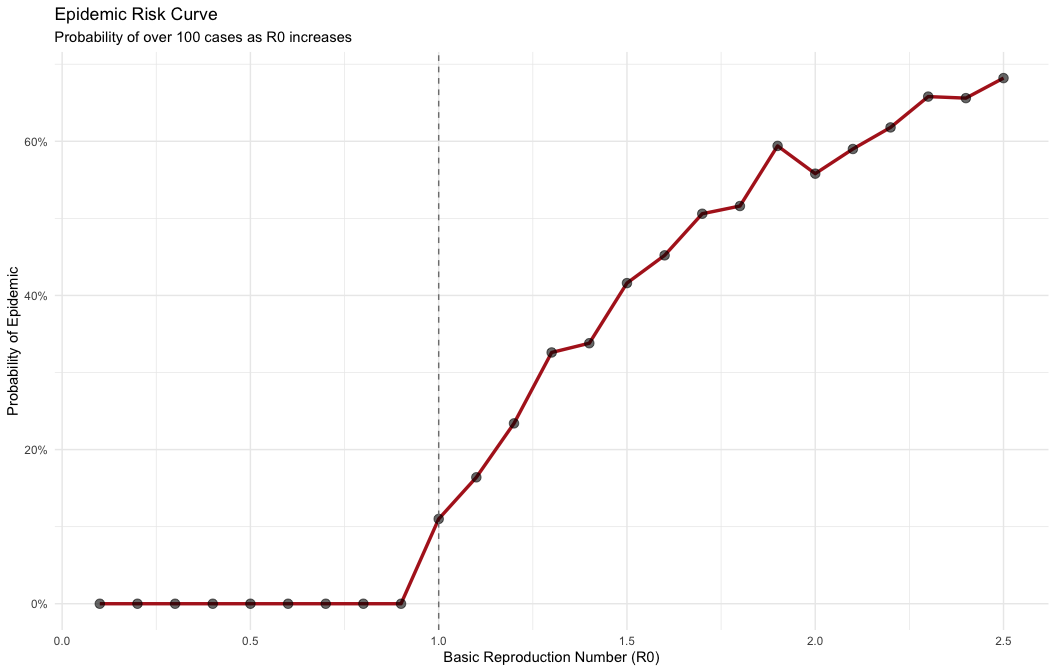
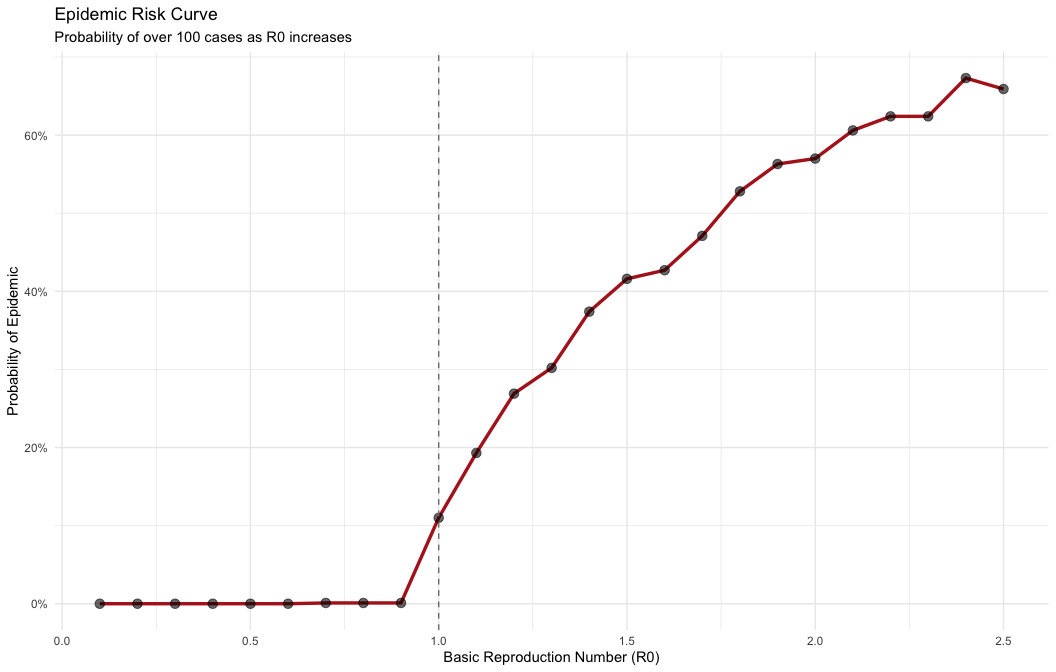
Add tables to davis_agemodel

diff --git a/vignettes/experiments/tabletop/davis_agemodel.md b/vignettes/experiments/tabletop/davis_agemodel.md
@@ -1,6 +1,7 @@
     library(multigroup.vaccine)
     library(socialmixr)
 
+    library(data.table)
     library(ggplot2)
 
 This vignette demonstrates an age-structured model of transmission
@@ -80,12 +81,82 @@ many of those simulations resulted in each number of total infections
            y = "Frequency",
            x = "Total Cases") +
       theme_minimal()
-    #> Warning: Removed 167 rows containing non-finite outside the scale range
+    #> Warning: Removed 151 rows containing non-finite outside the scale range
     #> (`stat_count()`).
-    #> Warning: Removed 1 row containing missing values or values outside the scale
+    #> Warning: Removed 2 rows containing missing values or values outside the scale
     #> range (`geom_bar()`).
 
 ![](davis_agemodel_files/figure-markdown_strict/unnamed-chunk-7-1.png)
+
+For a closer look at R0 = 0.5, here are the probabilities of different
+outbreak sizes:
+
+    # Show detailed probabilities for R0 = 0.5
+    outbreak_tot <- results_low[results_low$R0 == "0.5", ]
+    sizes <- c(1, 5, 10, 15, 20, 30, 50, 100)
+    knitr::kable(
+      data.table(
+        "Size" = sizes,
+        "P(Greater or equal)" = sapply(sizes, function(sz) mean(outbreak_tot$Cases >= sz)),
+        "P(Less or equal)" = sapply(sizes, function(sz) mean(outbreak_tot$Cases <= sz))
+      ),
+      caption = "Probability of outbreak sizes for R0 = 0.5",
+      digits = 2
+    )
+
+<table>
+<caption>Probability of outbreak sizes for R0 = 0.5</caption>
+<thead>
+<tr>
+<th style="text-align: right;">Size</th>
+<th style="text-align: right;">P(Greater or equal)</th>
+<th style="text-align: right;">P(Less or equal)</th>
+</tr>
+</thead>
+<tbody>
+<tr>
+<td style="text-align: right;">1</td>
+<td style="text-align: right;">1.00</td>
+<td style="text-align: right;">0.59</td>
+</tr>
+<tr>
+<td style="text-align: right;">5</td>
+<td style="text-align: right;">0.12</td>
+<td style="text-align: right;">0.90</td>
+</tr>
+<tr>
+<td style="text-align: right;">10</td>
+<td style="text-align: right;">0.04</td>
+<td style="text-align: right;">0.97</td>
+</tr>
+<tr>
+<td style="text-align: right;">15</td>
+<td style="text-align: right;">0.02</td>
+<td style="text-align: right;">0.99</td>
+</tr>
+<tr>
+<td style="text-align: right;">20</td>
+<td style="text-align: right;">0.01</td>
+<td style="text-align: right;">0.99</td>
+</tr>
+<tr>
+<td style="text-align: right;">30</td>
+<td style="text-align: right;">0.00</td>
+<td style="text-align: right;">1.00</td>
+</tr>
+<tr>
+<td style="text-align: right;">50</td>
+<td style="text-align: right;">0.00</td>
+<td style="text-align: right;">1.00</td>
+</tr>
+<tr>
+<td style="text-align: right;">100</td>
+<td style="text-align: right;">0.00</td>
+<td style="text-align: right;">1.00</td>
+</tr>
+</tbody>
+</table>
+
 If *R*<sub>0</sub> &gt; 1, there could be a very large outbreak. We can
 provide a quick estimate of outbreak sizes using our hybrid model:
 
@@ -112,16 +183,85 @@ provide a quick estimate of outbreak sizes using our hybrid model:
       theme_minimal() +
       theme(axis.text.x = element_text(angle = 45, hjust = 1))
 
-![](davis_agemodel_files/figure-markdown_strict/unnamed-chunk-8-1.png)
+![](davis_agemodel_files/figure-markdown_strict/unnamed-chunk-9-1.png)
+
+For R0 = 1.5, here are the probabilities across different outbreak
+sizes:
+
+    # Show detailed probabilities for R0 = 1.5
+    outbreak_tot <- results_high[results_high$R0 == "1.5", ]
+    sizes <- c(10, 20, 50, 100, 200, 500, 1000, 2000)
+    knitr::kable(
+      data.table(
+        "Size" = sizes,
+        "P(Greater or equal)" = sapply(sizes, function(sz) mean(outbreak_tot$Cases >= sz)),
+        "P(Less or equal)" = sapply(sizes, function(sz) mean(outbreak_tot$Cases <= sz))
+      ),
+      caption = "Probability of outbreak sizes for R0 = 1.5",
+      digits = 2
+    )
+
+<table>
+<caption>Probability of outbreak sizes for R0 = 1.5</caption>
+<thead>
+<tr>
+<th style="text-align: right;">Size</th>
+<th style="text-align: right;">P(Greater or equal)</th>
+<th style="text-align: right;">P(Less or equal)</th>
+</tr>
+</thead>
+<tbody>
+<tr>
+<td style="text-align: right;">10</td>
+<td style="text-align: right;">0.48</td>
+<td style="text-align: right;">0.52</td>
+</tr>
+<tr>
+<td style="text-align: right;">20</td>
+<td style="text-align: right;">0.46</td>
+<td style="text-align: right;">0.55</td>
+</tr>
+<tr>
+<td style="text-align: right;">50</td>
+<td style="text-align: right;">0.43</td>
+<td style="text-align: right;">0.57</td>
+</tr>
+<tr>
+<td style="text-align: right;">100</td>
+<td style="text-align: right;">0.43</td>
+<td style="text-align: right;">0.57</td>
+</tr>
+<tr>
+<td style="text-align: right;">200</td>
+<td style="text-align: right;">0.43</td>
+<td style="text-align: right;">0.57</td>
+</tr>
+<tr>
+<td style="text-align: right;">500</td>
+<td style="text-align: right;">0.43</td>
+<td style="text-align: right;">0.57</td>
+</tr>
+<tr>
+<td style="text-align: right;">1000</td>
+<td style="text-align: right;">0.43</td>
+<td style="text-align: right;">0.57</td>
+</tr>
+<tr>
+<td style="text-align: right;">2000</td>
+<td style="text-align: right;">0.43</td>
+<td style="text-align: right;">0.57</td>
+</tr>
+</tbody>
+</table>
 
 ## Other Diagrams
 
     # Calculate the probability of over 100 cases across a range of R0 values
     r0_range <- seq(0.1, 2.5, by = 0.1)
     risk_data <- do.call(rbind, lapply(r0_range, function(r) {
-      # Run 500 simulations per R0
+      # Run 1000 simulations per R0
       fs <- finalsize(popsize, r, contactmatrix, relsusc, reltransm, initR, initI, initV,
-                      method = "hybrid", nsims = 500)
+                      method = "hybrid", nsims = 1000)
 
       # Calculate proportion of runs that have over 100 cases
       prob_epidemic <- mean(rowSums(fs) > 100)
